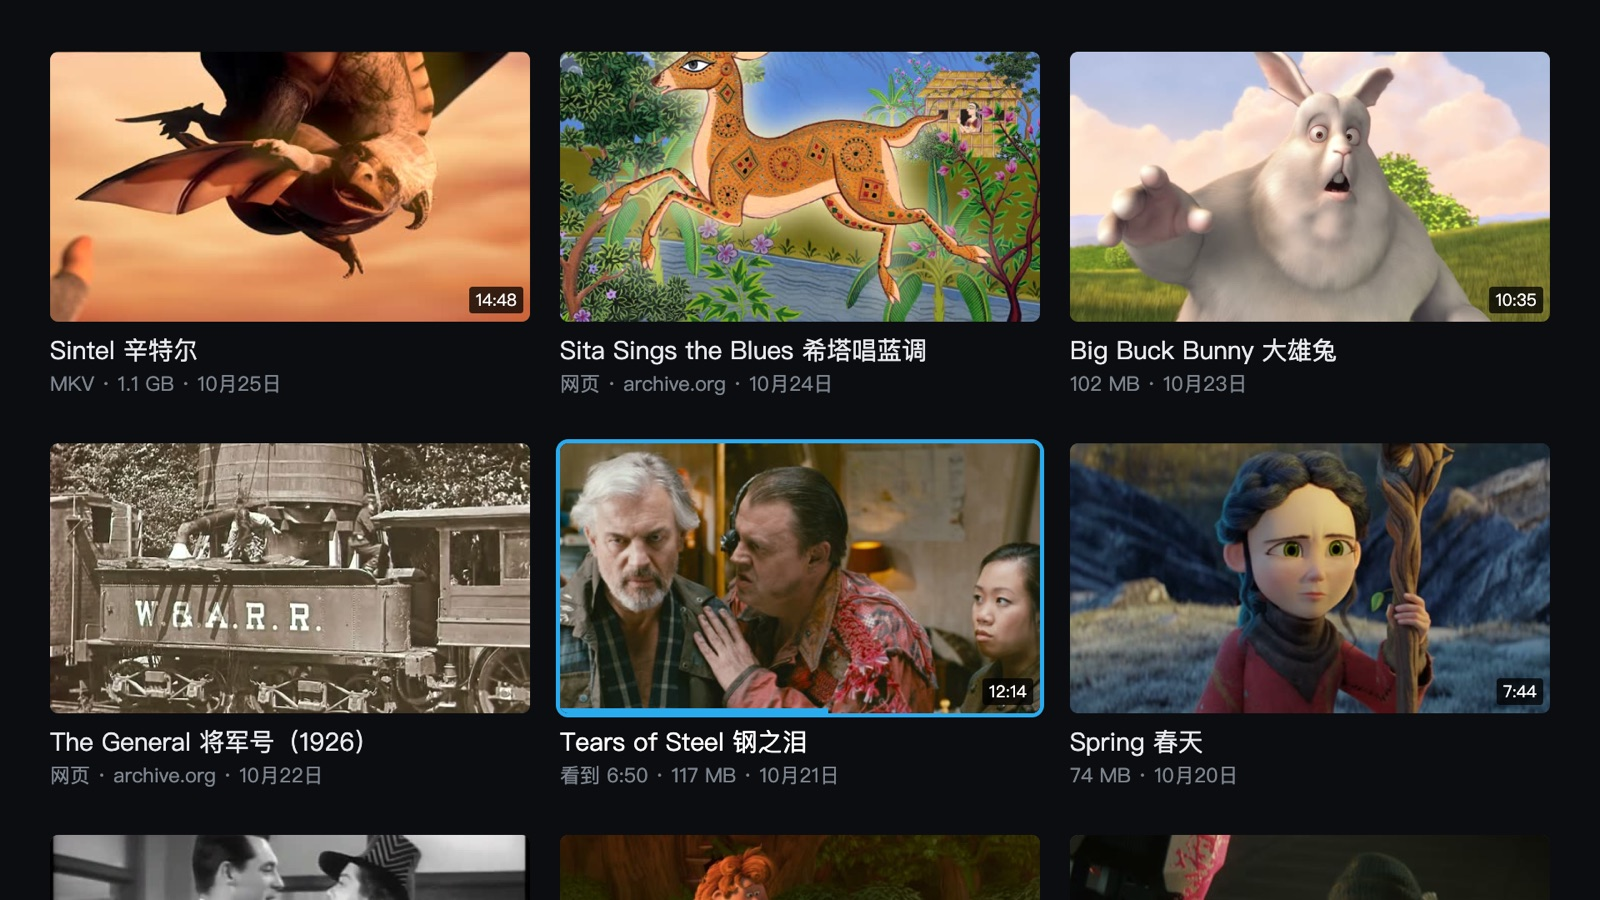
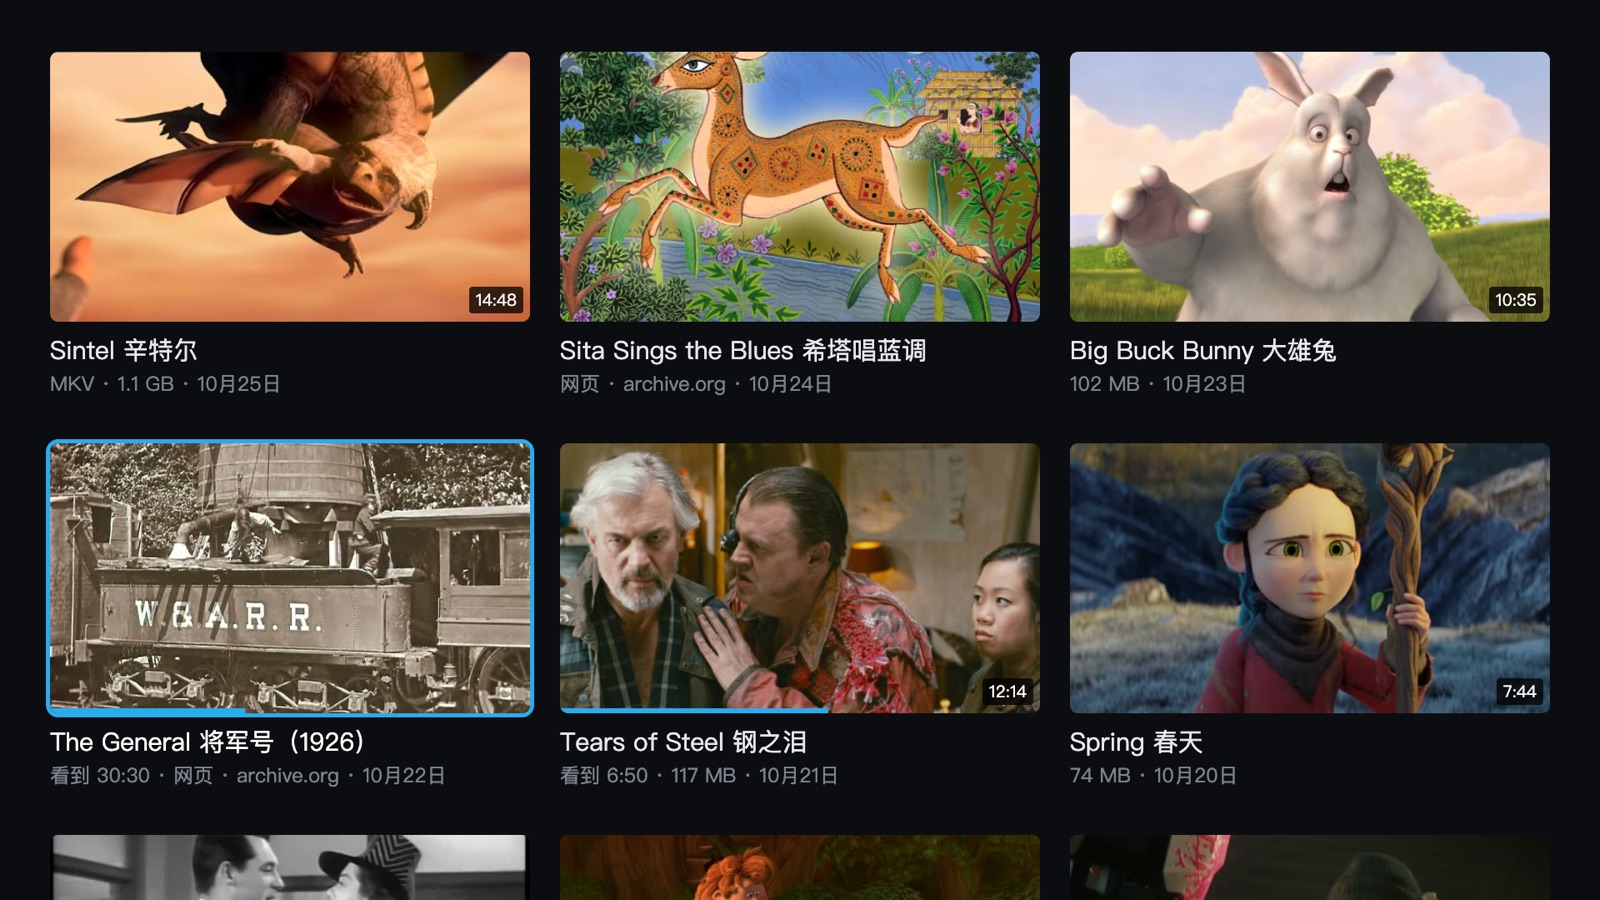
README：播放记录、音乐和播放记录两张截图（中英各 7 张）；发布说明先英文后中文
- 截图重拍：来源栏里有了「播放记录」；新加音乐（The Open Goldberg Variations，CC0，专辑图是 Haussmann 画的巴赫像，
  公有领域）和播放记录两张。readme-shots.mjs 加「钢琴曲」频道、byRefs、预先写进三条播放记录；TG.videos 给副本
  （不然放过的 Sintel 在播放记录里成了截的那一分钟的长度）
- README 中英：能做的加播放记录，拿什么试加音乐，测试表、目录、协议补上 Tizen 5.0 那份
- CLAUDE.md「发一版」：说明先英文、再中文

Claude-Session: https://claude.ai/code/session_01DruSuz3qx3KRBP2YpUMh3h

Changed region(s): [[0.0312, 0.4667, 0.6562, 0.8089], [0.0312, 0.84, 0.2812, 0.8711]]

diff --git a/README.md b/README.md
@@ -30,6 +30,8 @@ the original picture quality, and your phone is free as soon as the message is s
 | Press Left to slide out the source list: the groups and channels that have videos | A 1.1 GB MKV sent as a file, streaming, with its English subtitle track on |
 | ![Subtitle menu](docs/screenshots/en-04-menu.jpg) | ![A web link](docs/screenshots/en-05-web.jpg) |
 | Hold OK: the ten subtitle tracks inside the file, plus a subtitle file posted in the group | An archive.org film page posted in the group: the TV looks up the 1080p original and plays it |
+| ![Music](docs/screenshots/en-06-music.jpg) | ![History](docs/screenshots/en-07-history.jpg) |
+| Songs posted in a channel: pick one and the rest play in order; Back returns to the list while it keeps playing | History: everything you've played, most recent first, with where it came from and how far you got |
 
 > The group names, dates and file sizes in the screenshots are made up (`test/readme-shots.mjs` replaces the
 > Telegram layer), and the players show a short excerpt. Every film can be shared legally: Blender open movies —
@@ -37,7 +39,9 @@ the original picture quality, and your phone is free as soon as the message is s
 > Sprite Fright, Charge, Elephants Dream, Coffee Run and Caminandes 3, © Blender Foundation / Blender Studio,
 > CC BY 2.5–4.0 — and from [archive.org](https://archive.org/), Sita Sings the Blues (Nina Paley, 2008, CC0),
 > The General (Buster Keaton, 1926) and His Girl Friday (Howard Hawks, 1940), the last two public domain in the US.
-> Covers are frames from the films; sources and licences per film are in `test/readme-shots.mjs`.
+> Covers are frames from the films; sources and licences per film are in `test/readme-shots.mjs`. The music is
+> [The Open Goldberg Variations](https://archive.org/details/OpenGoldbergVariations) (Kimiko Ishizaka, 2012, CC0), with
+> Haussmann's 1748 portrait of Bach (public domain) as the cover.
 
 ## What it does
 
@@ -63,6 +67,8 @@ the original picture quality, and your phone is free as soon as the message is s
   title or file name: `S01E03`, `EP03`, `E03`, `[03]`, `Show - 03`, and Chinese `第3集`.
 - **Search** every group and channel you are in, from the top of the source list — titles, captions and file
   names. Recent searches are kept, since typing with a remote is slow.
+- **History**, the second entry in the source list: the videos, web links and songs you've played, most recent first,
+  with the group each came from and how far you got. Each account keeps its own (up to 200); Settings can clear it.
 - **Music**: songs posted in your groups and channels (MP3, M4A, OGG / Opus, WAV and FLAC) sit in the grid alongside
   the videos, and channels with only songs appear in the source list too. Pick one and the rest play in order; Up / Down
   change track, and Back returns to the list while the music keeps playing. These TVs cannot decode FLAC themselves, so
@@ -93,7 +99,7 @@ part inside the brackets as the title.
 | Where | Button | Does |
 |---|---|---|
 | Grid | arrows, OK | move, play |
-| Grid | Left on the first column | open the source list (Search is its first entry; Account and the language switch are at the bottom) |
+| Grid | Left on the first column | open the source list (Search and History are at the top; Account and the language switch are at the bottom) |
 | Grid | Back, twice | quit |
 | Player | OK, or Play/Pause | pause / resume |
 | Player | **hold OK** (about 1 s) | menu: audio track, subtitles, subtitle timing, next episode |
@@ -118,6 +124,8 @@ All of these can be shared legally, and between them they exercise the main feat
   `https://archive.org/details/his_girl_friday`. Its [Feature Films](https://archive.org/details/feature_films)
   collection has many more — post the page of a single film; the collection page itself is not recognised. Some
   uploads there claim to be public domain when they are not, so check before you share.
+- **Music**: the MP3s of [The Open Goldberg Variations](https://archive.org/details/OpenGoldbergVariations) (Bach played
+  by Kimiko Ishizaka, CC0), posted to a channel or group.
 
 ## Will it run on my TV
 
@@ -231,6 +239,8 @@ mkvtoolnix for the MKV set), with the commands at the top of each script:
 | `check.mjs` | MP4 parser against ffprobe; the rebuilt fragments decoded by ffmpeg |
 | `check-mkv.mjs` | MKV parser frame by frame against ffprobe, including lacing, header stripping, missing Cues |
 | `check-subs.mjs` | subtitle encodings and formats; PGS rendering compared pixel by pixel with ffmpeg |
+| `check-flac.mjs` | the FLAC decoder, byte for byte against ffmpeg |
+| `legacy-bigint.mjs` | the big-number code of the Tizen 5.0 build, against native BigInt |
 | `i18n.mjs` | every interface string has an English translation |
 | `apikey.mjs` | where the API ID comes from, and the screen for entering one |
 | `run.mjs` | the playback engine in Chromium over a throttled server that imitates Telegram |
@@ -243,7 +253,7 @@ Conclusions and how to debug are in [`CLAUDE.md`](CLAUDE.md); the story behind e
 ## Layout
 
 ```
-app/              the client (no build step; mtcute is bundled into js/tg.bundle.js by deploy.sh)
+app/              the client (no build step; mtcute is bundled into js/tg.bundle.js, and js/tg.legacy.js for Tizen 5.0, by deploy.sh)
   js/app.js         screens and remote keys: sign-in, grid, player, menu, next episode, search
   js/i18n.js        interface language: English / Chinese
   js/accounts.js    several accounts: one session database each, per-person local records
@@ -261,7 +271,7 @@ app/              the client (no build step; mtcute is bundled into js/tg.bundle
   js/flac.js        FLAC software decoder (these TVs can't decode FLAC)
   js/web.js         web links (the framework)
   js/sites.js       the site rule the repository ships: archive.org (your own go in sites.local.js, not in the repository)
-build/            mtcute's bundle entry points (worker and main thread)
+build/            mtcute's bundle entry points (worker and main thread); legacy/ is the build for TVs without BigInt
 spike/            feasibility probes and engine measurements, not packaged
 test/             desktop tests
 tools/            deploy, release package (release.sh), self-update (update-*.mjs), log collector
@@ -272,6 +282,6 @@ docs/             the story and measurements behind each finding, by topic; READ
 
 ## Licence
 
-MIT. `app/js/vendor/hls.min.js` (hls.js) is Apache-2.0; mtcute and qrcode-generator, bundled at build time, are
-MIT. See [THIRD_PARTY_NOTICES.md](THIRD_PARTY_NOTICES.md). Telegram is a trademark of its owner; this project is not
+MIT. `app/js/vendor/hls.min.js` (hls.js) is Apache-2.0; mtcute, qrcode-generator and bn.js, bundled at build time, are
+MIT, and JSBI (in the Tizen 5.0 build) is Apache-2.0. See [THIRD_PARTY_NOTICES.md](THIRD_PARTY_NOTICES.md). Telegram is a trademark of its owner; this project is not
 affiliated with it.

diff --git a/docs/README截图.md b/docs/README截图.md
@@ -5,10 +5,15 @@
 ## 结论
 
 - README.md 是英文（GitHub 默认展示），README.zh.md 是中文；截图中英各一套（`docs/screenshots/en-*.jpg` / 不带 en- 的）。
-- 片子都要能合法转发：Blender 的开源电影（CC BY）、archive.org 上公有领域 / CC0 的老电影。假的 Telegram 层，不碰真账号；archive.org 的接口和下载在脚本里拦下来答。
+- 片子都要能合法转发：Blender 的开源电影（CC BY）、archive.org 上公有领域 / CC0 的老电影；音乐是 The Open Goldberg Variations（CC0），
+  专辑图用 Haussmann 画的巴赫像（公有领域）—— 那个 archive.org 条目里的专辑封面是别人传的，协议说不清，没用。
+  假的 Telegram 层，不碰真账号；archive.org 的接口和下载在脚本里拦下来答。
 - 截片段：视频和音频要从同一处开始（音频晚开头播放引擎走不动）；MP4 别 `-c copy` 从中间截（编辑列表），重新编码。
 
-**README 截图**（`test/readme-shots.mjs`，中英各 5 张）：网格里 Blender 的片子和 archive.org 的卡片混排；Sintel 用官方发布的
+- 播放记录那张：早几天放过的三条（钢之泪、将军号、大雄兔）开头写进去，之后真放的 Sintel、Sita、Aria 排在前面。
+  假的 `TG.videos` 要给副本：应用放过当文件发的视频会把时长写回卡片对象，截的是一分钟的片段，播放记录里 Sintel 就成了 1:07。
+
+**README 截图**（`test/readme-shots.mjs`，中英各 7 张，1.2.2 起多了音乐、播放记录两张；以前是 5 张）：网格里 Blender 的片子和 archive.org 的卡片混排；Sintel 用官方发布的
 `Sintel.2010.1080p.mkv`（H.264 + AC-3 5.1 + 10 条内嵌 SRT）截一分钟，加官方的中文外挂字幕 `sintel_chs.srt`（GBK）；字幕菜单；
 网页链接那张拦下 archive.org 的接口和下载，转到本地截的 Sita 1080p。
 - **截片段的坑**：`ffmpeg -ss 104 -i … -c:v copy -c:a aac` —— 视频从 104 秒前面那个关键帧（98.958）开始，音频从 104 秒开始，

diff --git a/CLAUDE.md b/CLAUDE.md
@@ -129,7 +129,7 @@ node test/serve.mjs & node test/ui-emu.mjs       # 改界面之后，看 logs/ui
 2. `node tools/update-release.mjs`（取自 `git archive HEAD`，`app/`、`build/` 有未提交改动就拒绝），
    `git add update && git commit -m "更新包 x.y.z" && git tag vx.y.z && git push origin master vx.y.z`
    —— tag 要一起推：manifest 从 master 取，bundle 从 tag 取。
-3. `zsh tools/release.sh` 出 wgt，`gh release create`，说明中英双份。
+3. `zsh tools/release.sh` 出 wgt，`gh release create`，说明先英文、`---`、再中文，最后 sha256（用户 10-26 要的，老的发布说明也都改成了这样）。
 4. 装着 1.1.0 以后版本的电视会自己更新。
 5. 不用管 Apps2Samsung 的社区目录（README 里推荐的装法）：它每天按 `releases/latest` 自己取新的 wgt
    （`Apps2Samsung/tizen-community-packages` 的 `packages/titlog__telegram-tizen.json`，按 `telegram-tizen-.*[.]wgt$` 挑资产），
